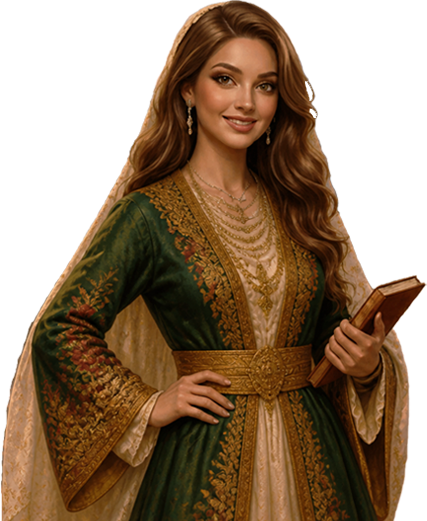
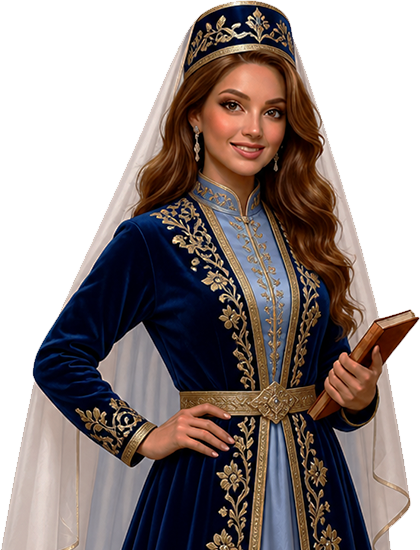
Маршруты->Добавлены достопримечательности и девушка-караимка

diff --git a/src/assets/5-concrete-route-city/data/Греки/Керчь/1. Гора Митридат/content.html b/src/assets/5-concrete-route-city/data/Греки/Керчь/1. Гора Митридат/content.html
@@ -1,0 +1,21 @@
+<div class="text-container">
+  Храм святого Илии был возведен на средства греческой диаспоры, которая
+  исторически составляла значительную часть населения города. Судьба храма была
+  трудной. Вторая мировая война и период советского «богоборчества» нанесли
+  зданию серьезный ущерб.<br />
+  Здание было спроектировано в греко-византийском стиле, что подчеркивало
+  преемственность традиций греческого православия на крымской земле.<br />
+  Вторая мировая война и длительный период советского «богоборчества» нанесли
+  зданию серьезный ущерб и привели к его постепенному разрушению.<br />
+  <br />
+  Сегодня церковь является одной из ключевых точек маршрута «Малый Иерусалим»,
+  который объединяет памятники четырех главных религий города, символизируя
+  вековое мирное сосуществование различных народов и традиций.<br />
+  В настоящее время в храме Илии ежедневно проводятся богослужения, а само
+  здание продолжает реставрироваться.<br />
+  В настоящее время в храме Илии ежедневно проводятся богослужения, а само
+  здание продолжает реставрироваться.<br />
+  В настоящее время в храме Илии ежедневно проводятся богослужения, а само
+  здание продолжает реставрироваться.<br />
+  <br />
+</div>

diff --git a/src/assets/5-concrete-route-city/data/Греки/Керчь/2. Склеп Деметры/content.html b/src/assets/5-concrete-route-city/data/Греки/Керчь/2. Склеп Деметры/content.html
@@ -1,0 +1,21 @@
+<div class="text-container">
+  Храм святого Илии был возведен на средства греческой диаспоры, которая
+  исторически составляла значительную часть населения города. Судьба храма была
+  трудной. Вторая мировая война и период советского «богоборчества» нанесли
+  зданию серьезный ущерб.<br />
+  Здание было спроектировано в греко-византийском стиле, что подчеркивало
+  преемственность традиций греческого православия на крымской земле.<br />
+  Вторая мировая война и длительный период советского «богоборчества» нанесли
+  зданию серьезный ущерб и привели к его постепенному разрушению.<br />
+  <br />
+  Сегодня церковь является одной из ключевых точек маршрута «Малый Иерусалим»,
+  который объединяет памятники четырех главных религий города, символизируя
+  вековое мирное сосуществование различных народов и традиций.<br />
+  В настоящее время в храме Илии ежедневно проводятся богослужения, а само
+  здание продолжает реставрироваться.<br />
+  В настоящее время в храме Илии ежедневно проводятся богослужения, а само
+  здание продолжает реставрироваться.<br />
+  В настоящее время в храме Илии ежедневно проводятся богослужения, а само
+  здание продолжает реставрироваться.<br />
+  <br />
+</div>

diff --git a/src/assets/5-concrete-route-city/data/Греки/Керчь/3. Историко-археологический музей/content.html b/src/assets/5-concrete-route-city/data/Греки/Керчь/3. Историко-археологический музей/content.html
@@ -1,0 +1,21 @@
+<div class="text-container">
+  Храм святого Илии был возведен на средства греческой диаспоры, которая
+  исторически составляла значительную часть населения города. Судьба храма была
+  трудной. Вторая мировая война и период советского «богоборчества» нанесли
+  зданию серьезный ущерб.<br />
+  Здание было спроектировано в греко-византийском стиле, что подчеркивало
+  преемственность традиций греческого православия на крымской земле.<br />
+  Вторая мировая война и длительный период советского «богоборчества» нанесли
+  зданию серьезный ущерб и привели к его постепенному разрушению.<br />
+  <br />
+  Сегодня церковь является одной из ключевых точек маршрута «Малый Иерусалим»,
+  который объединяет памятники четырех главных религий города, символизируя
+  вековое мирное сосуществование различных народов и традиций.<br />
+  В настоящее время в храме Илии ежедневно проводятся богослужения, а само
+  здание продолжает реставрироваться.<br />
+  В настоящее время в храме Илии ежедневно проводятся богослужения, а само
+  здание продолжает реставрироваться.<br />
+  В настоящее время в храме Илии ежедневно проводятся богослужения, а само
+  здание продолжает реставрироваться.<br />
+  <br />
+</div>

diff --git a/src/assets/5-concrete-route-city/data/Греки/Керчь/4. Лапидарий/content.html b/src/assets/5-concrete-route-city/data/Греки/Керчь/4. Лапидарий/content.html
@@ -1,0 +1,21 @@
+<div class="text-container">
+  Храм святого Илии был возведен на средства греческой диаспоры, которая
+  исторически составляла значительную часть населения города. Судьба храма была
+  трудной. Вторая мировая война и период советского «богоборчества» нанесли
+  зданию серьезный ущерб.<br />
+  Здание было спроектировано в греко-византийском стиле, что подчеркивало
+  преемственность традиций греческого православия на крымской земле.<br />
+  Вторая мировая война и длительный период советского «богоборчества» нанесли
+  зданию серьезный ущерб и привели к его постепенному разрушению.<br />
+  <br />
+  Сегодня церковь является одной из ключевых точек маршрута «Малый Иерусалим»,
+  который объединяет памятники четырех главных религий города, символизируя
+  вековое мирное сосуществование различных народов и традиций.<br />
+  В настоящее время в храме Илии ежедневно проводятся богослужения, а само
+  здание продолжает реставрироваться.<br />
+  В настоящее время в храме Илии ежедневно проводятся богослужения, а само
+  здание продолжает реставрироваться.<br />
+  В настоящее время в храме Илии ежедневно проводятся богослужения, а само
+  здание продолжает реставрироваться.<br />
+  <br />
+</div>
